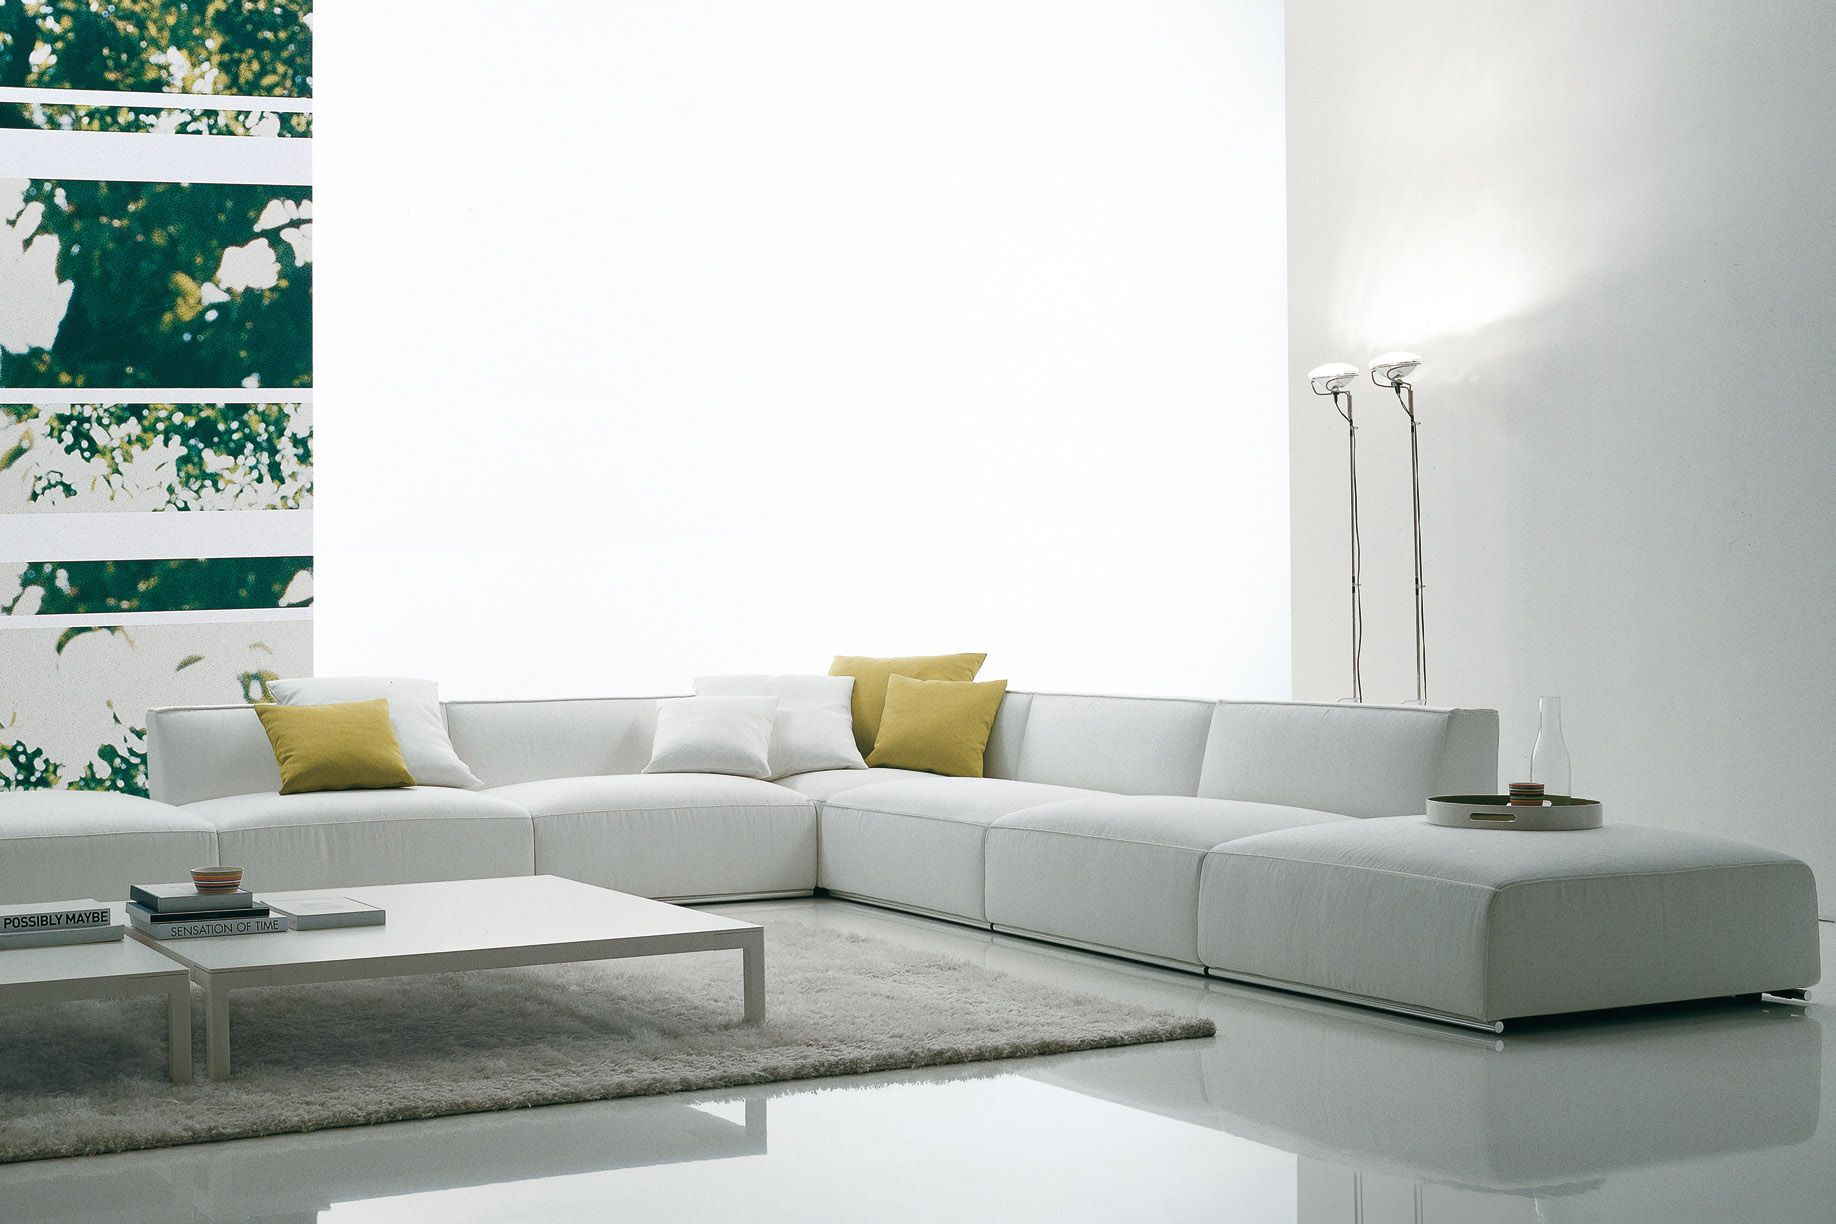
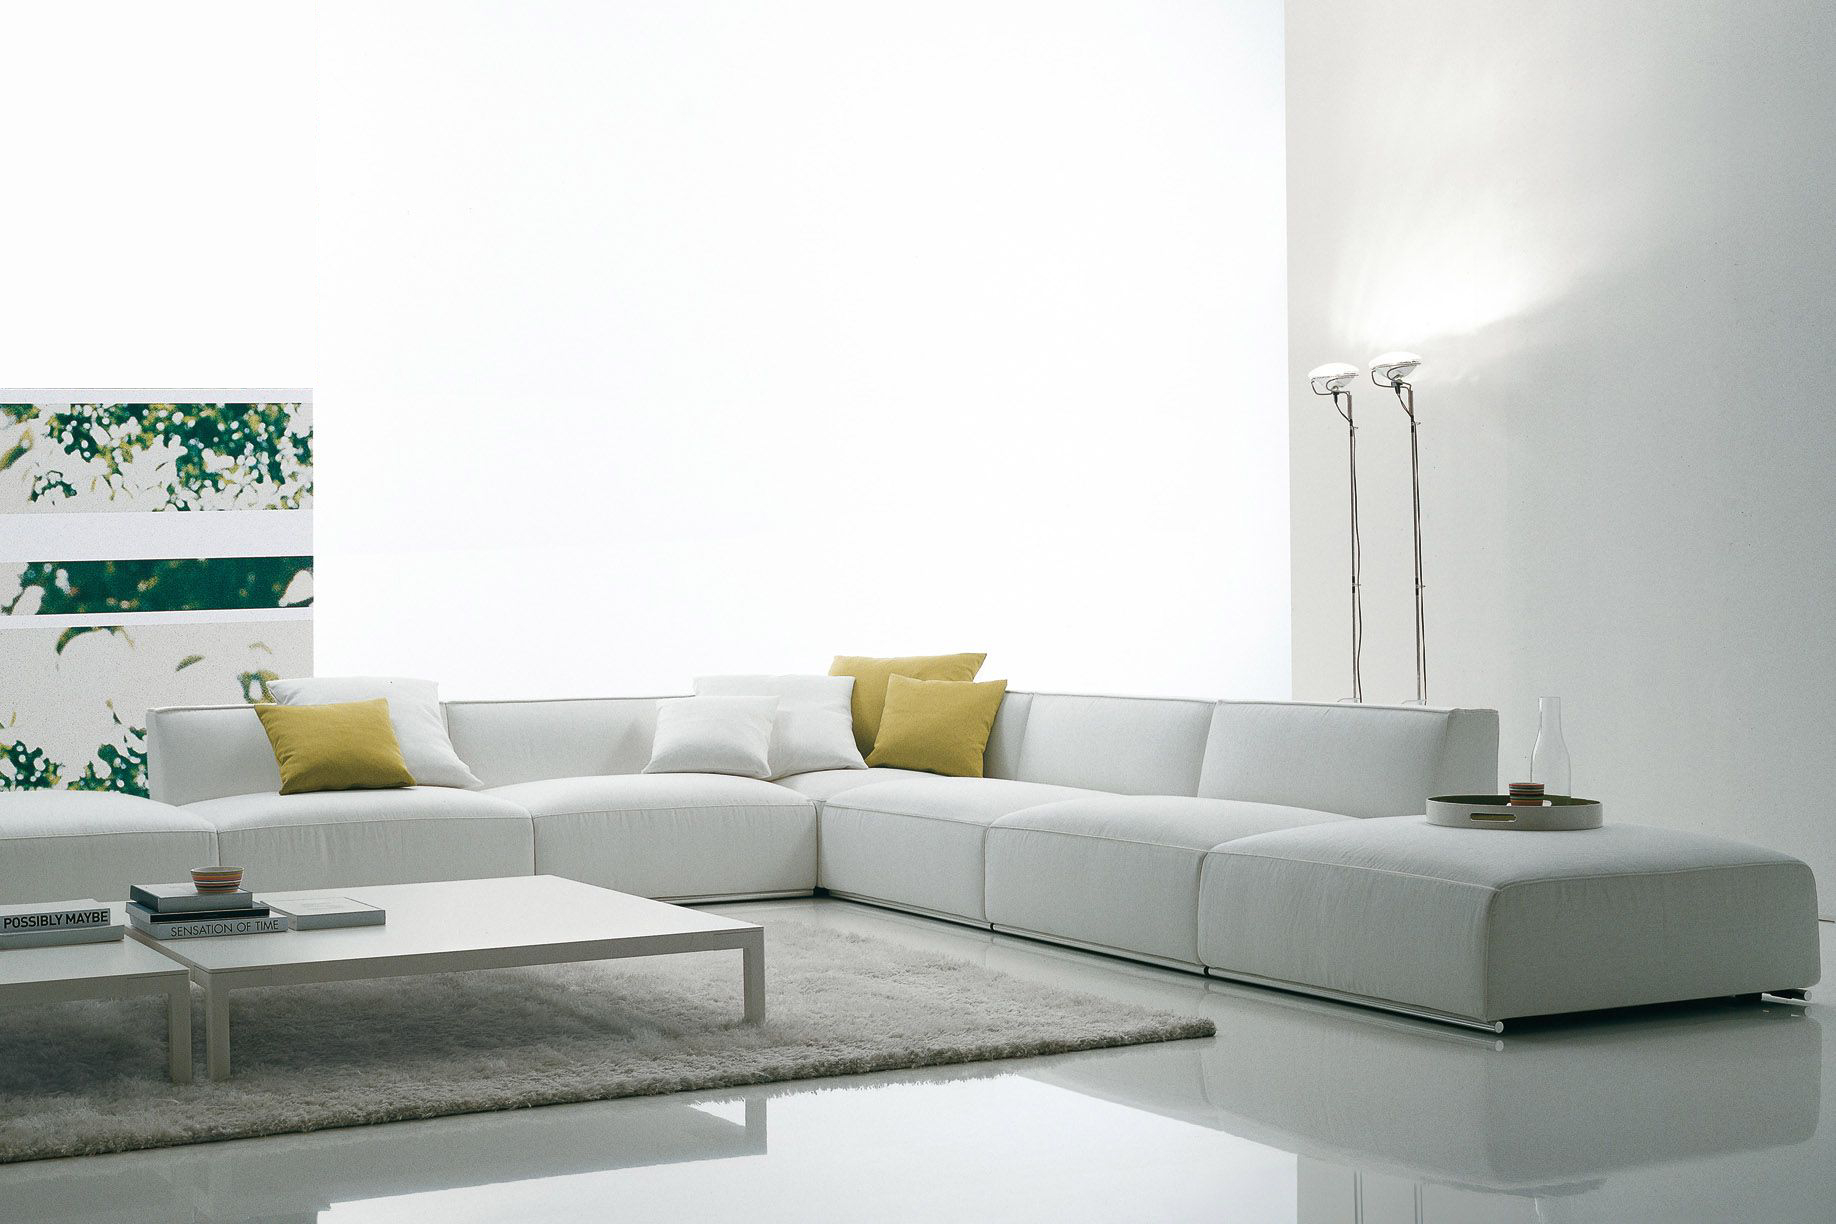
виправив логотип, виправив фонове зображення головної сторінки, додав більше адаптивнссті для сторінки Products

Changed region(s): [[0.0, 0.0, 0.1863, 0.3415]]

diff --git a/src/сss/styles.css b/src/сss/styles.css
@@ -82,15 +82,15 @@ body {
     justify-content: space-between; /* Розташовує елементи хедера на краях */
     min-height: 100px;
   }
-  
+
   .logo {
-    margin-left: 50px;
+    position: relative;
   }
 
   .header__logo__link__img {
       display: block;
       min-width: 20%;
-      width: 300px;
+      width: 155px;
   }
   
   
@@ -384,13 +384,6 @@ body {
 
   .footer__item {
     max-width: calc(33% - 10px);
-  }
-
-  .footer__item__title__logo {
-    min-width: 25%;
-    max-width: 65%;
-    display: block;
-    margin: 0 auto;
   }
 
   .footer__item__title {
@@ -749,11 +742,11 @@ body {
   background-color: var(--main-backgrounds-color);
   padding: 20px 15px;
   text-align: center;
-  width: 70%;
+  width: calc(90% - 20px);
+  height: calc(90% - 20px);
   border-radius: 5px;
   display: flex;
   flex-direction: column;
-  justify-content: space-around;
   align-items: center;
 }
 
@@ -761,7 +754,8 @@ body {
   display: flex;
   justify-content: center; /* Центрування по горизонталі */
   align-items: center; /* Центруван`ня по вертикалі */
-  height: 200px; /* Встановіть висоту за вашими потребами */
+  height: 60%;
+  width: 90%;
   margin-bottom: 15px;
 }
 
@@ -1120,6 +1114,9 @@ body {
   .goods__products__filters__list {
     flex-direction: row;
     flex-wrap: wrap;
+    gap: 20px;
+    justify-content: flex-start;
+    align-items: center;
   }
 
   .goods__products__filters__list__item label {
@@ -1132,7 +1129,7 @@ body {
 
   .goods__product {
     width: calc(90% - 5px);
-    height: 300px;
+    height: calc(90% - 5px);
     display: block;
     padding: 10px 10px;
   }
@@ -1143,7 +1140,15 @@ body {
   }
 
   .goods__product__title {
-    font-size: 16px;
+    font-size: 14px;
+  }
+
+  .goods__product__size {
+    font-size: 12px;
+  }
+
+  .goods__product__color {
+    font-size: 12px;
   }
 }
 
@@ -1177,7 +1182,6 @@ body {
 
     .header__logo__link__img {
       width: 85%;
-      margin-left: -45px;
     }
 
     .menu {
@@ -1410,7 +1414,7 @@ body {
     }
 
     .goods__product {
-      height: 205px;
+      height: calc(85% - 10px);
       width: calc(85% - 10px);
       padding: 10px 15px;
       justify-content: flex-start;
@@ -1439,7 +1443,6 @@ body {
   }
 
 
-
 @media screen and  (min-width: 768px) and (max-width: 1023px) {
 
   .header-section {
@@ -1454,7 +1457,7 @@ body {
   }
 
   .header {
-    padding: 0;
+    padding: 20px 0 0 0;
     margin: 0;
   }
   
@@ -1467,7 +1470,7 @@ body {
     }
 
   .header__logo__link__img {
-    width: 240px;
+    width: 120px;
     }
 
   .menu {
@@ -1590,6 +1593,10 @@ body {
     font-size: 16px;
   }
 
+  .goods__products__filters__list__item {
+    max-width: 130px;
+  }
+
 
   .goods__products__filters__list__item label {
     font-size: 16px;
@@ -1599,8 +1606,29 @@ body {
     grid-template-columns: repeat(3, 1fr);
   }
 
+  .goods__product {
+    padding: 10px 10px;
+    justify-content: flex-start;
+    max-height: 225px;
+  }
+
+  .goods__product__image {
+    height: 60%;
+    width: 90%;
+  }
+
   .goods__product__title {
     font-size: 16px;
+    margin-bottom: 0;
+  }
+
+  .goods__product__size {
+    font-size: 14px;
+    margin-bottom: 0;
+  }
+
+  .goods__product__color {
+    font-size: 14px;
   }
 
 /* AboutUs page*/
@@ -1642,7 +1670,7 @@ body {
   }
 
   .header__logo__link__img {
-    width: 240px;
+    width: 135px;
   }
 
   .menu {
@@ -1763,6 +1791,10 @@ body {
   .titles__text {
       font-size: 16px;
     }
+
+  .goods__products__filters__list__item {
+    max-width: 135px;
+  }
   
   
   .goods__products__filters__list__item label {
@@ -1804,11 +1836,11 @@ body {
   }
 
   .logo {
-    margin-left: 65px;
+    
   }
 
   .header__logo__link__img {
-    width: 260px;
+    width: 145px;
   }
 
   .menu {
@@ -1940,7 +1972,7 @@ body {
 @media screen and (min-width: 1700px) and (max-width: 1885px) {
 
   .logo {
-    margin-left: 120px;
+    
   }
 
   .company-section .container {
@@ -1961,7 +1993,7 @@ body {
   }
 
   .header__logo__link__img {
-    width: 420px;
+    width: 210px;
   }
 
   .menu {
